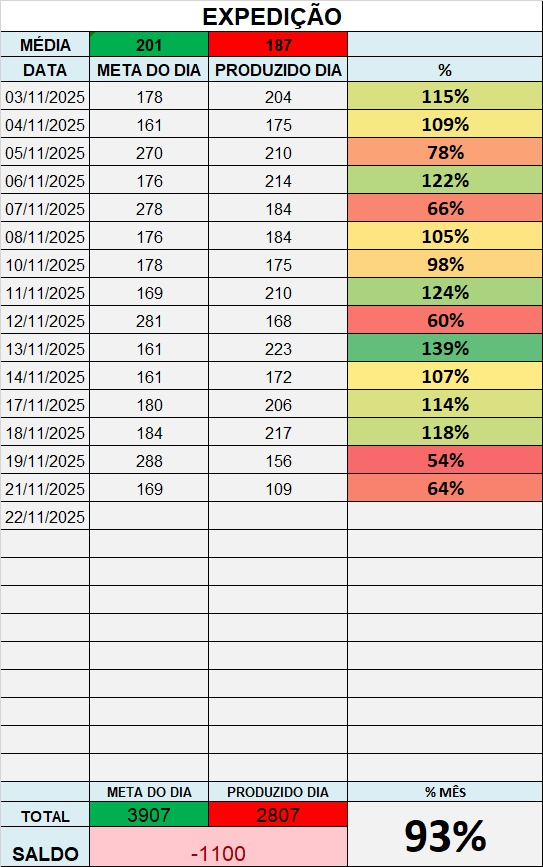
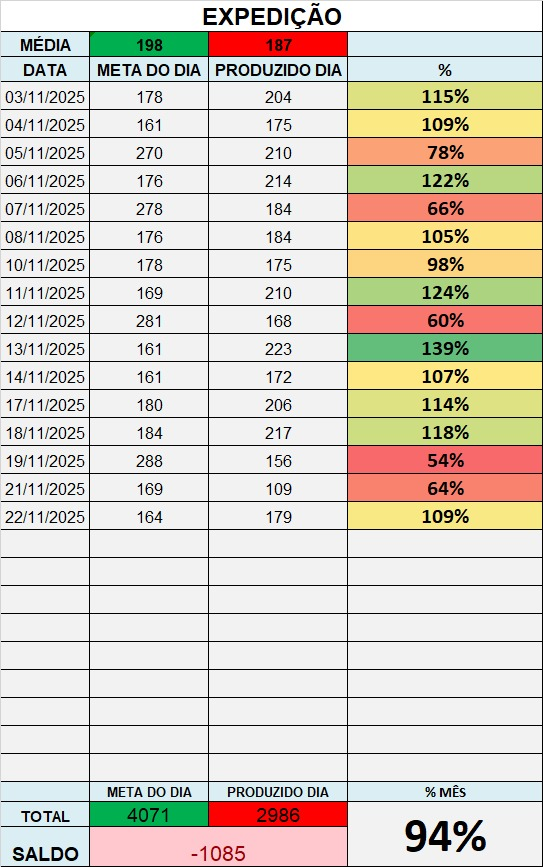
gggg

diff --git a/back__incial.js b/back__incial.js
@@ -354,7 +354,9 @@ const unidades = {
             { data: "18/11/2025", captura: ["capturas/Unidade 1/2025/Expedição/MetasTv/NOVEMBRO/18.jpg", "capturas/Unidade 1/2025/Expedição/Embalagem/NOVEMBRO/18.jpg"] },
             { data: "19/11/2025", captura: ["capturas/Unidade 1/2025/Expedição/MetasTv/NOVEMBRO/19.jpg", "capturas/Unidade 1/2025/Expedição/Embalagem/NOVEMBRO/19.jpg"] },
             { data: "21/11/2025", captura: ["capturas/Unidade 1/2025/Expedição/MetasTv/NOVEMBRO/21.jpg", "capturas/Unidade 1/2025/Expedição/Embalagem/NOVEMBRO/21.jpg"] },
-            
+            { data: "22/11/2025", captura: ["capturas/Unidade 1/2025/Expedição/MetasTv/NOVEMBRO/22.jpg", "capturas/Unidade 1/2025/Expedição/Embalagem/NOVEMBRO/22.jpg"] },
+
+
 
             // { data: "", captura: ["", ""] },
 
@@ -886,6 +888,9 @@ const unidades = {
             { data: "18/11/2025", captura: ["capturas/Unidade 1/2025/Usinagem/Filetação/11 NOVEMBRO/18.jpg"] },
             { data: "19/11/2025", captura: ["capturas/Unidade 1/2025/Usinagem/Filetação/11 NOVEMBRO/19.jpg"] },
             { data: "21/11/2025", captura: ["capturas/Unidade 1/2025/Usinagem/Filetação/11 NOVEMBRO/21.jpg"] },
+            { data: "22/11/2025", captura: ["capturas/Unidade 1/2025/Usinagem/Filetação/11 NOVEMBRO/22.jpg"] },
+
+
 
 
             // { data: "", captura: [""] },
@@ -1152,7 +1157,7 @@ const unidades = {
             { data: "18/11/2025", captura: ["capturas/Unidade 1/2025/Usinagem/Montagem/NOVEMBRO/18.jpg"] },
             { data: "19/11/2025", captura: ["capturas/Unidade 1/2025/Usinagem/Montagem/NOVEMBRO/19.jpg"] },
             { data: "21/11/2025", captura: ["capturas/Unidade 1/2025/Usinagem/Montagem/NOVEMBRO/21.jpg"] },
-
+            { data: "22/11/2025", captura: ["capturas/Unidade 1/2025/Usinagem/Montagem/NOVEMBRO/22.jpg"] },
 
 
 
